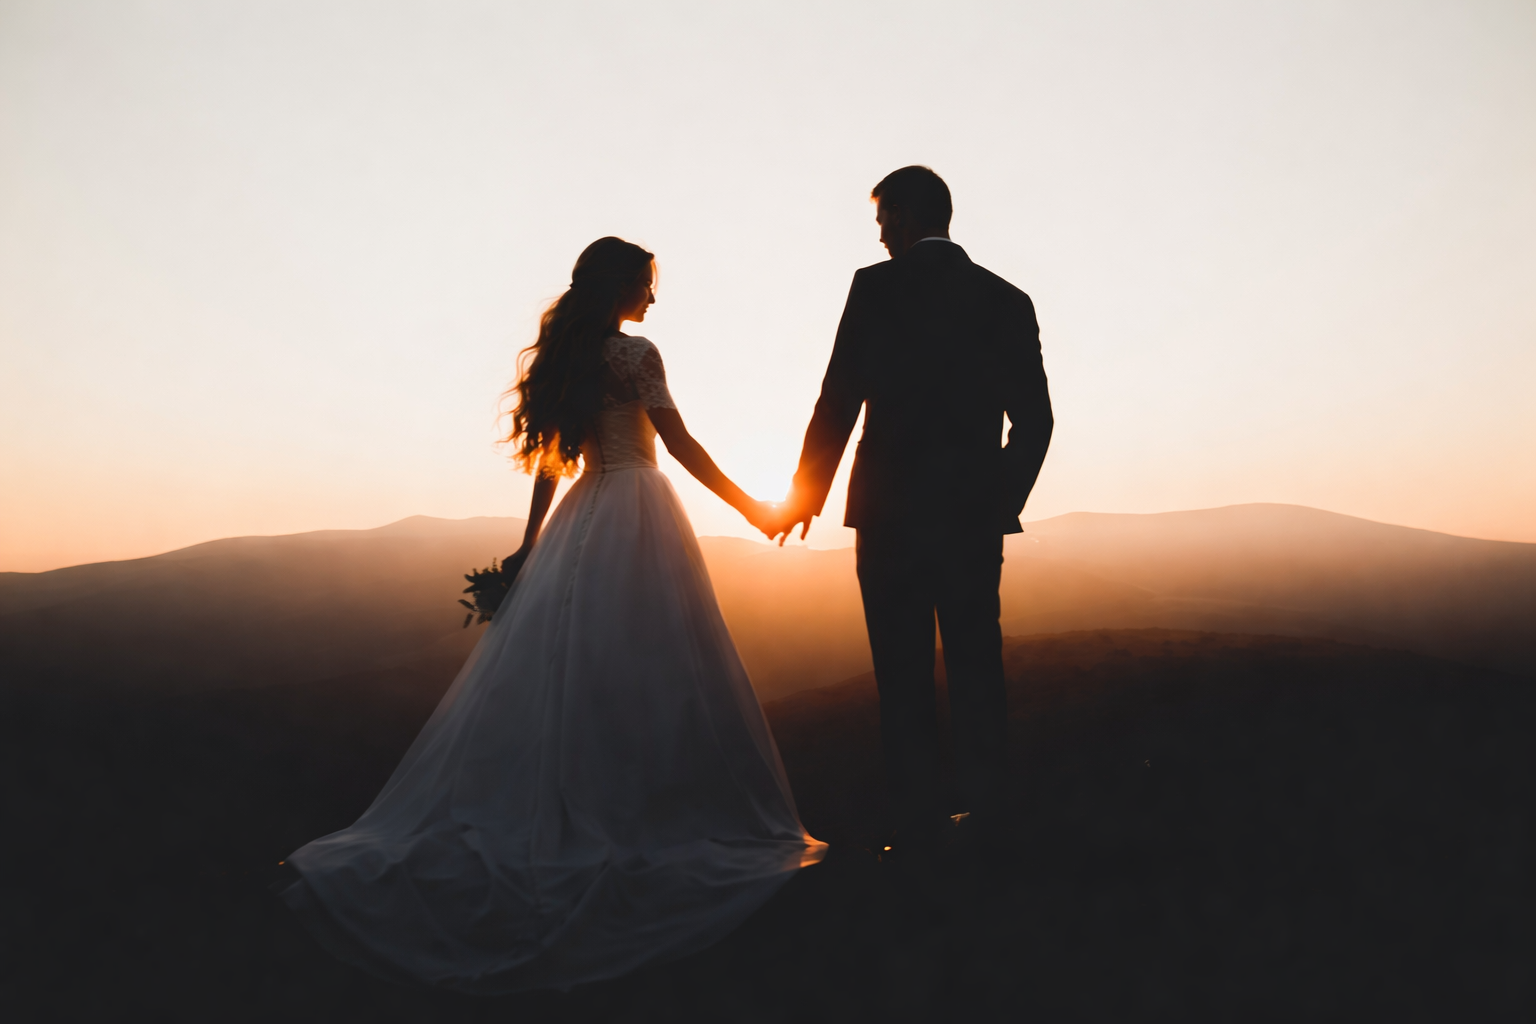
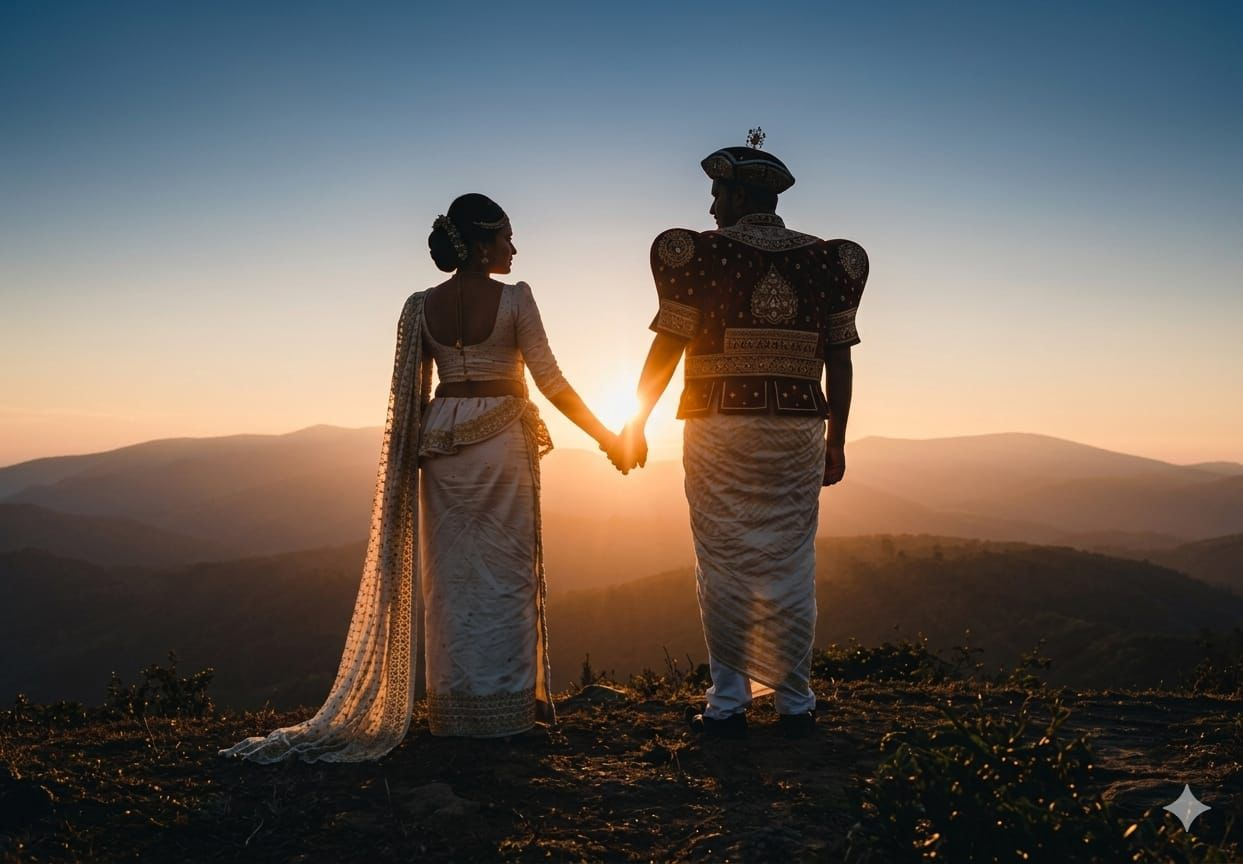
k

diff --git a/src/App.tsx b/src/App.tsx
@@ -569,7 +569,7 @@ export default function App() {
               transition={{ duration: 2, delay: 0.5, ease: "easeOut" }}
               className="absolute top-40 md:top-24 left-0 right-0 text-center z-10 pointer-events-none"
             >
-              <h1 className="serif text-4xl md:text-6xl text-[#c79957] font-medium tracking-[0.2em] drop-shadow-xl">
+              <h1 className="serif text-4xl md:text-6xl text-[#c79957] font-bold tracking-[0.2em] drop-shadow-2xl">
                 Dewni & Nilanka
               </h1>
               <p className="mt-3 text-[10px] md:text-xs uppercase tracking-[0.6em] text-[#c79957]/90 font-bold drop-shadow-md">
@@ -788,7 +788,7 @@ export default function App() {
           <div className="flex flex-row items-center justify-center gap-2 sm:gap-4 md:gap-16 mt-4 md:mt-8 relative w-full px-2">
             <div className="absolute inset-x-0 top-1/2 -translate-y-1/2 h-32 bg-sage/5 blur-3xl rounded-full" />
 
-            <motion.h2 whileHover={{ scale: 1.05 }} className="script text-[13vw] sm:text-6xl md:text-9xl text-sage drop-shadow-lg relative z-10 leading-none">
+            <motion.h2 whileHover={{ scale: 1.05 }} className="script text-[15vw] sm:text-7xl md:text-[10rem] text-sage drop-shadow-2xl font-bold relative z-10 leading-none">
               Dewni
             </motion.h2>
 
@@ -805,7 +805,7 @@ export default function App() {
               <div className="h-px w-6 md:w-24 bg-sage/20 hidden md:block" />
             </div>
 
-            <motion.h2 whileHover={{ scale: 1.05 }} className="script text-[13vw] sm:text-6xl md:text-9xl text-sage drop-shadow-lg relative z-10 leading-none">
+            <motion.h2 whileHover={{ scale: 1.05 }} className="script text-[15vw] sm:text-7xl md:text-[10rem] text-sage drop-shadow-2xl font-bold relative z-10 leading-none">
               Nilanka
             </motion.h2>
           </div>
@@ -969,11 +969,11 @@ export default function App() {
 
                     {/* couple names */}
                     <div className="flex flex-col items-center justify-center mt-2 mb-1">
-                      <span className="script text-[36px] md:text-[52px] text-sage drop-shadow-sm leading-none">
+                      <span className="script text-[42px] md:text-[60px] text-sage drop-shadow-md font-bold leading-none">
                         Dewni
                       </span>
                       <span className="text-taupe/40 text-sm md:text-base font-serif italic my-1">&amp;</span>
-                      <span className="script text-[36px] md:text-[52px] text-sage drop-shadow-sm leading-none">
+                      <span className="script text-[42px] md:text-[60px] text-sage drop-shadow-md font-bold leading-none">
                         Nilanka
                       </span>
                     </div>
@@ -1087,19 +1087,19 @@ export default function App() {
             <div className="absolute inset-0 opacity-10"
               style={{ backgroundImage: 'linear-gradient(rgba(212,175,55,0.55) 1px, transparent 1px), linear-gradient(90deg, rgba(212,175,55,0.55) 1px, transparent 1px)', backgroundSize: '38px 38px' }} />
 
-            <div className="relative z-10 flex h-full flex-col items-center justify-end pb-12 px-8 text-center text-[#1a0f0a]">
-              <div className="inline-flex items-center gap-2 rounded-full border border-[#1a0f0a]/20 bg-white/50 px-4 py-1.5 backdrop-blur-sm">
-                <Sparkles className="h-3.5 w-3.5 text-[#1a0f0a]" />
-                <p className="text-[10px] uppercase tracking-[0.32em] text-[#1a0f0a] drop-shadow-sm font-bold">Blessed Union</p>
+            <div className="relative z-10 flex h-full flex-col items-center justify-end pb-12 px-8 text-center text-[#5A453D]">
+              <div className="inline-flex items-center gap-2 rounded-full border border-[#5A453D]/20 bg-white/50 px-4 py-1.5 backdrop-blur-sm">
+                <Sparkles className="h-3.5 w-3.5 text-[#5A453D]" />
+                <p className="text-[9px] uppercase tracking-[0.32em] text-[#5A453D] drop-shadow-sm font-medium">Blessed Union</p>
               </div>
-              <h3 className="mt-5 serif text-4xl text-[#1a0f0a] drop-shadow-md font-bold">
-                Dewni <span className="text-[#1a0f0a]">&amp;</span> Nilanka
+              <h3 className="mt-4 serif text-3xl text-[#5A453D] drop-shadow-md font-light">
+                Dewni <span className="text-[#5A453D]">&amp;</span> Nilanka
               </h3>
-              <p className="mt-4 text-sm leading-7 text-[#1a0f0a] font-bold max-w-[280px]">
+              <p className="mt-3 text-xs leading-6 text-[#5A453D] font-light max-w-[260px]">
                 "Love is patient, love is kind." Join us as we exchange vows in faith, gratitude, and joy.
               </p>
-              <div className="mt-8 h-px w-28 bg-[#1a0f0a]/40" />
-              <p className="mt-5 text-xs uppercase tracking-[0.28em] text-[#1a0f0a] font-black">13 August 2026</p>
+              <div className="mt-6 h-px w-24 bg-[#5A453D]/30" />
+              <p className="mt-4 text-[10px] uppercase tracking-[0.28em] text-[#5A453D] font-medium">13 August 2026</p>
             </div>
 
             <motion.div
@@ -1284,17 +1284,25 @@ export default function App() {
               back={
                 <div className="w-full h-full flex flex-col justify-center items-center px-4 md:px-8">
                   <Clock size={24} className="text-sage mb-4 md:mb-6 opacity-70 md:w-8 md:h-8" />
-                  <h4 className="serif text-2xl md:text-3xl text-sage mb-4 md:mb-8">Timeline</h4>
+                  <h4 className="serif text-3xl md:text-4xl text-sage mb-4 md:mb-8 font-bold">Timeline</h4>
 
-                  <div className="w-full max-w-sm space-y-4 md:space-y-6 text-left">
-                    <div className="flex items-start gap-2 md:gap-4">
-                      <span className="serif text-sage font-bold text-[10px] md:text-base w-12 md:w-20 text-right shrink-0 pt-1">9:00 AM</span>
+                  <div className="w-full max-w-sm space-y-6 md:space-y-8 text-left">
+                    <div className="flex items-start gap-3 md:gap-5">
+                      <span className="serif text-sage font-bold text-sm md:text-lg w-16 md:w-24 text-right shrink-0 pt-1">9:00 AM</span>
+                      <div className="w-px h-full bg-sage/30 relative mt-2 -ml-[1px] md:-ml-2 shrink-0">
+                        <div className="absolute top-0 -left-[3px] w-2 h-2 rounded-full bg-sage" />
+                      </div>
+                      <div className="pb-4">
+                        <p className="text-xs md:text-sm font-bold uppercase tracking-wider">Welcome</p>
+                      </div>
+                    </div>
+                    <div className="flex items-start gap-3 md:gap-5">
+                      <span className="serif text-sage font-bold text-sm md:text-lg w-16 md:w-24 text-right shrink-0 pt-1">9:53 AM</span>
                       <div className="w-px h-full bg-sage/30 relative mt-2 -ml-[1px] md:-ml-2 shrink-0">
                         <div className="absolute top-0 -left-[3px] w-2 h-2 rounded-full bg-sage" />
                       </div>
                       <div>
-                        <p className="text-[10px] md:text-xs font-bold uppercase tracking-wider">Welcome & Poruwa Ceremony</p>
-                        <p className="serif text-[10px] md:text-xs italic text-zinc-500">Poruwa at 9:53 AM</p>
+                        <p className="text-xs md:text-sm font-bold uppercase tracking-wider text-[#A84C2C]">Poruwa Ceremony</p>
                       </div>
                     </div>
                   </div>